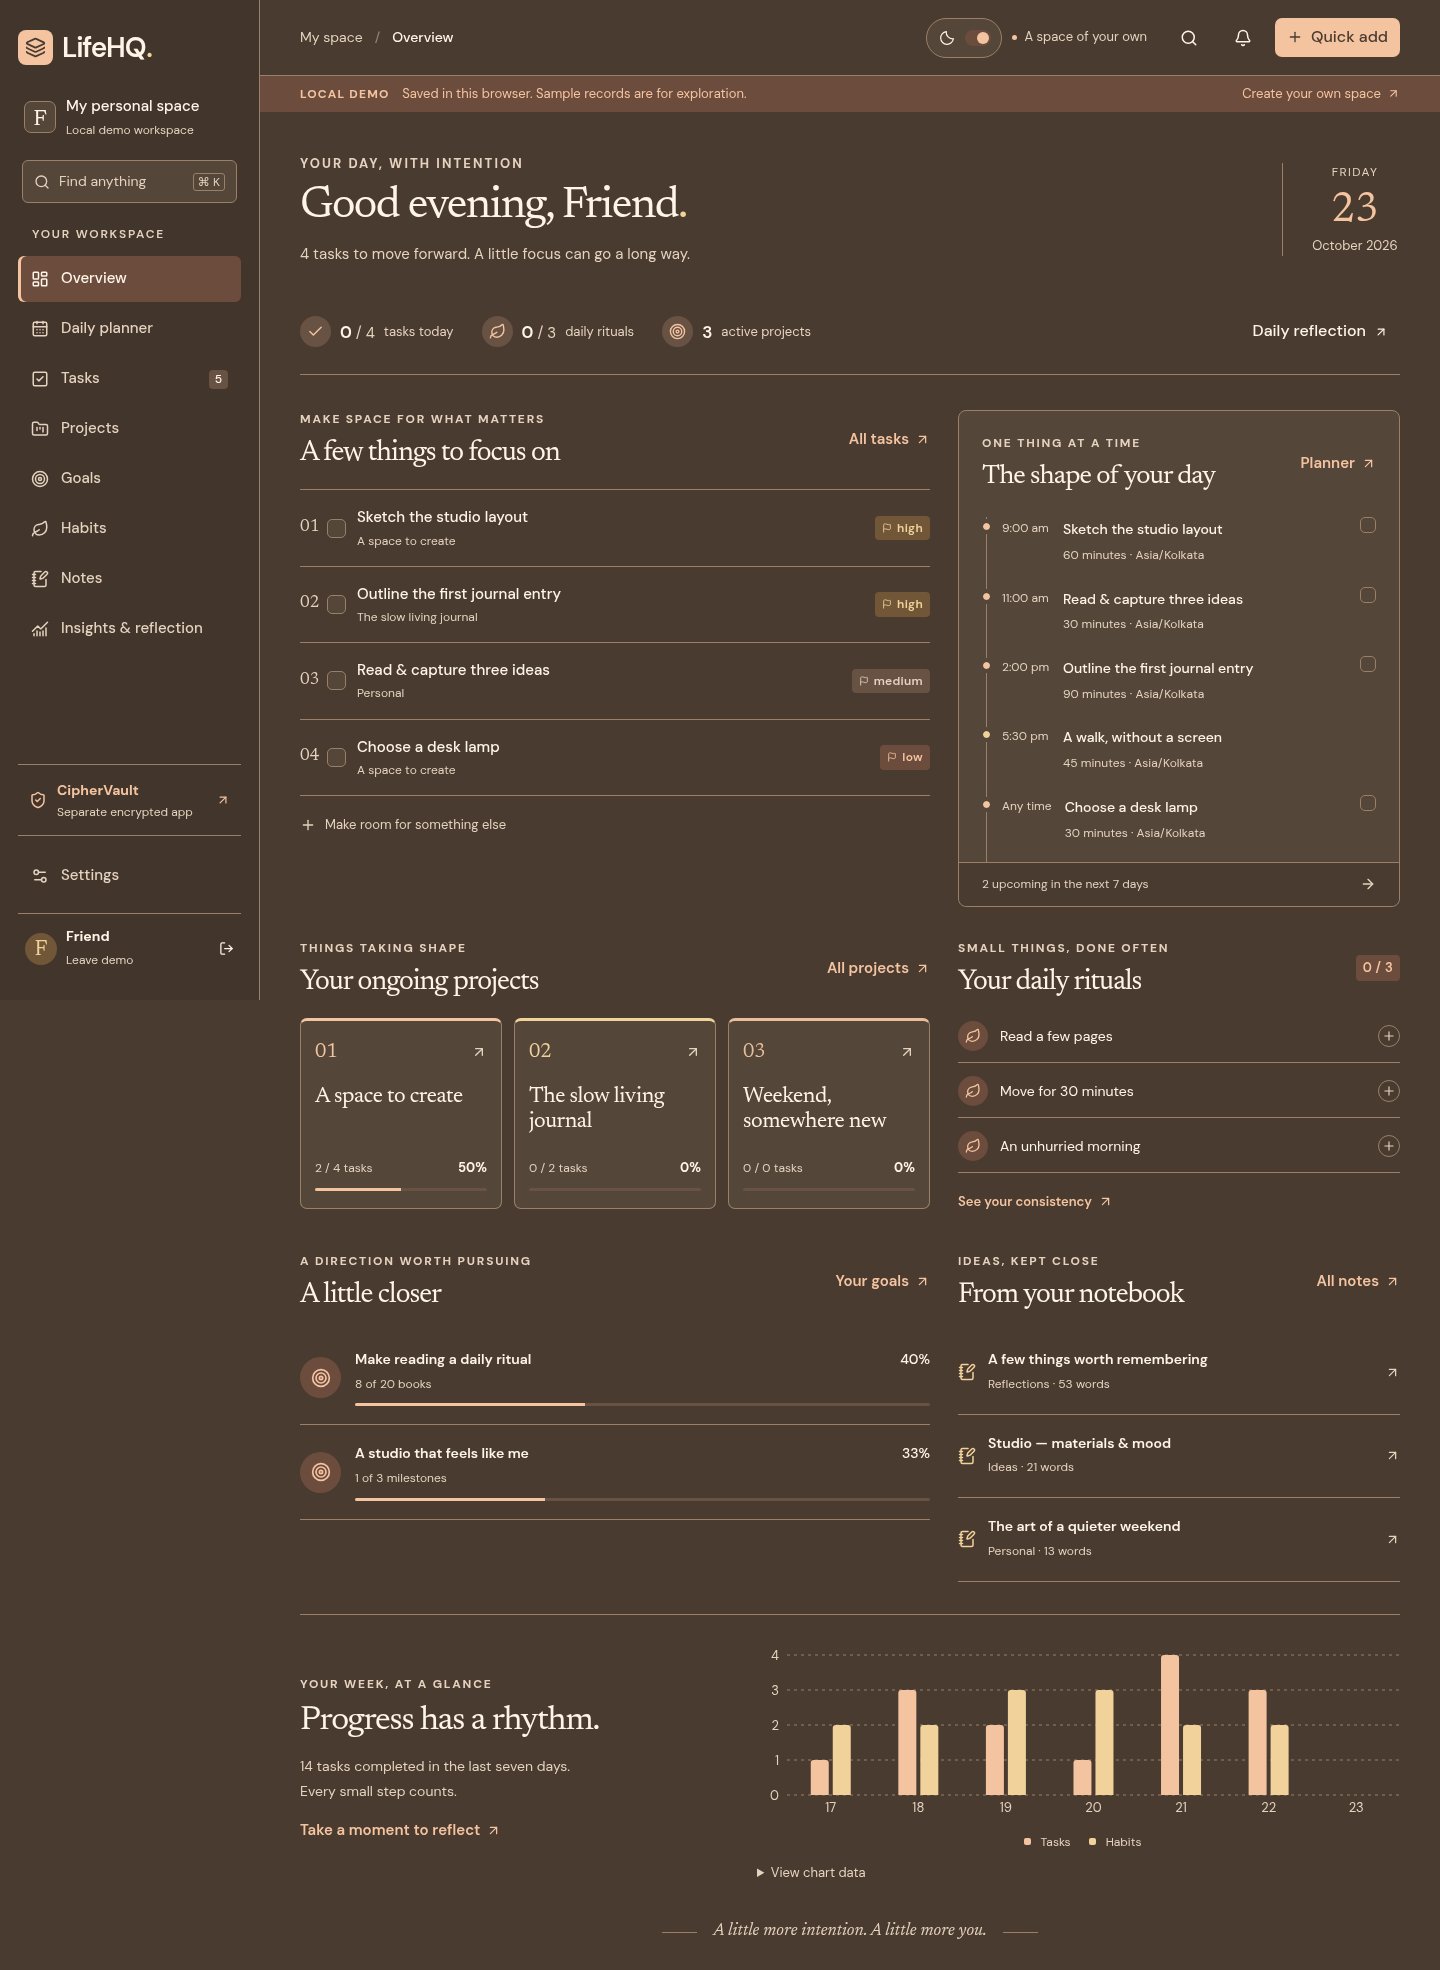
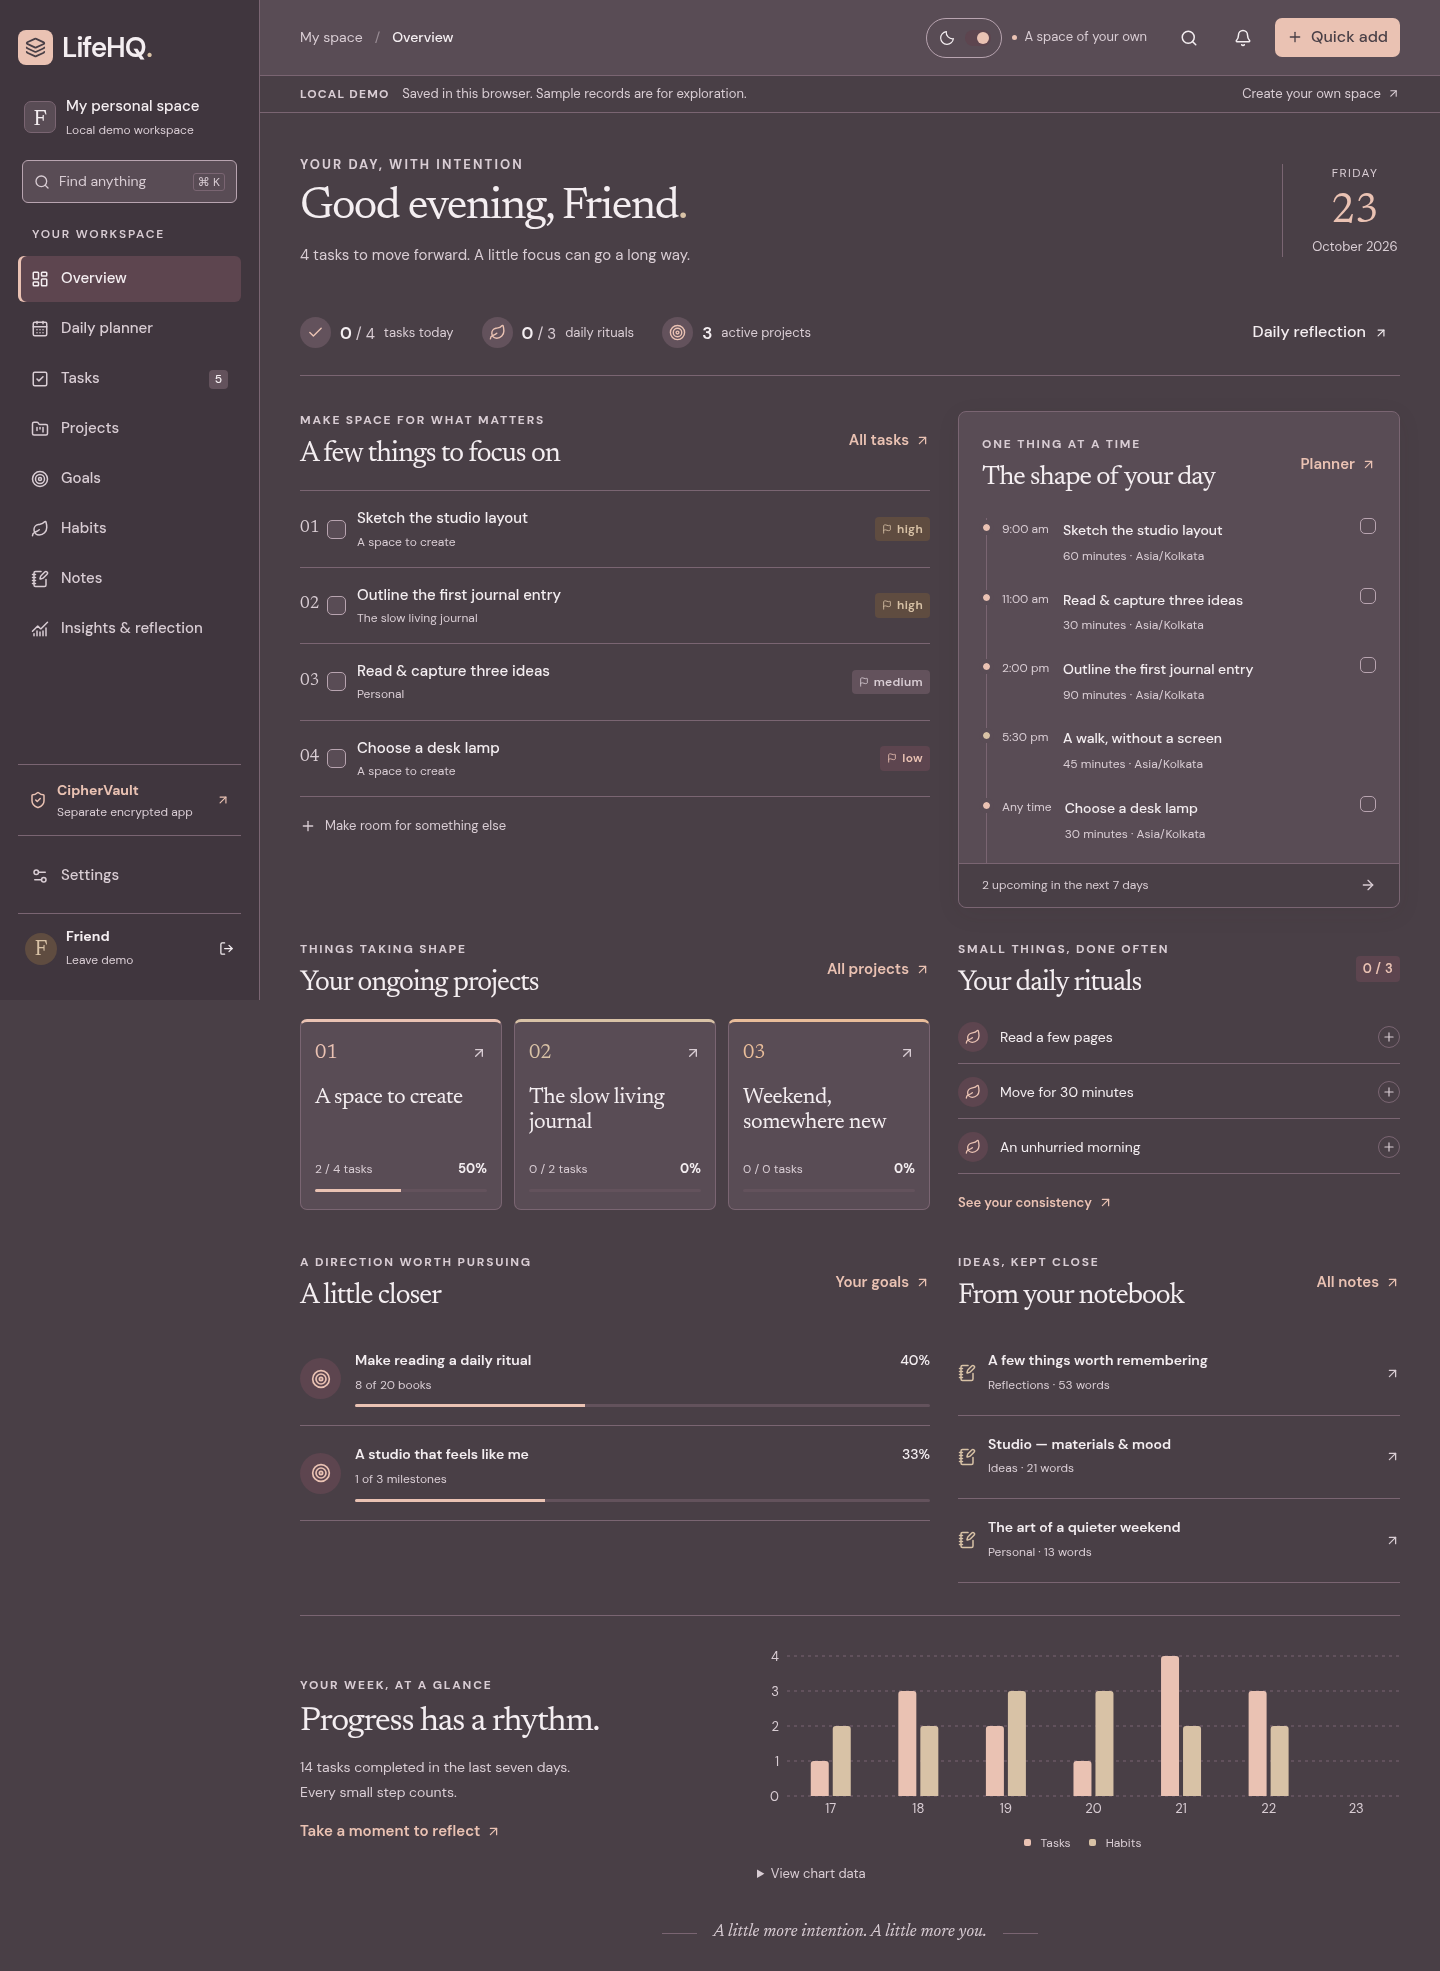
Refine dark surfaces, contrast and controls in both apps

diff --git a/packages/ui/styles.css b/packages/ui/styles.css
@@ -27,20 +27,21 @@
   color-scheme: light;
 }
 [data-theme="dark"] {
-  --paper: #493b30;
-  --surface: #55463a;
-  --ink: #fff5e7;
-  --muted: #e5d3bf;
-  --accent-primary: #f4c3a0;
-  --accent-soft: #6c4d3d;
-  --stone: #685244;
-  --line: #9a8069;
-  --copper: #f2d29b;
-  --copper-soft: #715738;
-  --danger: #ffd2cd;
-  --danger-soft: #76444e;
-  --sidebar: #42362c;
-  --shadow: 0 20px 80px #4c302b44;
+  --paper: #493f46;
+  --surface: #594c55;
+  --ink: #f4eef1;
+  --muted: #d9cdd4;
+  --accent-primary: #eac2b3;
+  --accent-soft: #5d454f;
+  --stone: #63525c;
+  --line: #7a6572;
+  --control-line: #b8a4b0;
+  --copper: #d8c2a6;
+  --copper-soft: #5f4c40;
+  --danger: #f2bfc2;
+  --danger-soft: #643e49;
+  --sidebar: #40363e;
+  --shadow: 0 18px 54px #33262e33;
   color-scheme: dark;
 }
 * {
@@ -166,7 +167,7 @@ textarea {
   color: var(--surface);
 }
 [data-theme="dark"] .button-primary {
-  color: #493b30;
+  color: var(--paper);
 }
 .button-secondary {
   border-color: var(--line);
@@ -637,4 +638,44 @@ textarea {
   .theme-toggle-track {
     display: none;
   }
+}
+
+/* Quiet dividers and higher-contrast controls have distinct jobs in dark mode. */
+[data-theme="dark"] input:not([type="checkbox"]):not([type="radio"]),
+[data-theme="dark"] select,
+[data-theme="dark"] textarea {
+  border-color: var(--control-line);
+}
+[data-theme="dark"] input::placeholder,
+[data-theme="dark"] textarea::placeholder {
+  color: var(--muted);
+  opacity: 1;
+}
+[data-theme="dark"] .button {
+  transition: transform 0.15s;
+}
+[data-theme="dark"] .button-secondary {
+  color: var(--ink);
+  border-color: var(--control-line);
+}
+[data-theme="dark"] .theme-toggle {
+  border-color: var(--control-line);
+}
+[data-theme="dark"] .button-danger {
+  color: var(--paper);
+}
+
+[data-theme="dark"] .toast {
+  background: var(--surface);
+  color: var(--ink);
+  border: 1px solid var(--control-line);
+  box-shadow: var(--shadow);
+}
+
+[data-theme="dark"] input[type="range"],
+[data-theme="dark"] input[type="radio"] {
+  accent-color: var(--accent-primary);
+}
+[data-theme="dark"] .modal-overlay {
+  background: color-mix(in srgb, var(--paper) 85%, transparent);
 }

diff --git a/apps/ciphervault/app/styles.css b/apps/ciphervault/app/styles.css
@@ -13,17 +13,20 @@
   --sidebar: #ece4d6;
 }
 [data-theme="dark"] {
-  --paper: #44382c;
-  --surface: #514333;
-  --ink: #fff0d8;
-  --muted: #e3cdb0;
-  --accent-primary: #f0c37d;
-  --accent-soft: #624932;
-  --stone: #69553f;
-  --line: #967a5b;
-  --copper: #f5d092;
-  --copper-soft: #725535;
-  --sidebar: #3f3429;
+  --paper: #48403b;
+  --surface: #584e47;
+  --ink: #f3eee8;
+  --muted: #d8cfc4;
+  --accent-primary: #dcc4a5;
+  --accent-soft: #5e4c3c;
+  --stone: #63564c;
+  --line: #807064;
+  --control-line: #b6a699;
+  --copper: #d4bda1;
+  --copper-soft: #5c4a3a;
+  --danger: #f2bfc2;
+  --danger-soft: #643e49;
+  --sidebar: #403a35;
 }
 .vault-app {
   min-height: 100vh;
@@ -944,4 +947,27 @@
 /* Theme changes must not blend a light button into a dark label. */
 .vault-app .button {
   transition: transform 0.15s;
+}
+
+[data-theme="dark"] .prototype-banner {
+  background: var(--paper);
+  color: var(--muted);
+  border-bottom: 1px solid var(--line);
+}
+[data-theme="dark"] .prototype-banner strong {
+  color: var(--ink);
+}
+[data-theme="dark"] .vault-nav.active {
+  color: var(--ink);
+  background: var(--stone);
+  box-shadow: inset 3px 0 var(--accent-primary);
+}
+[data-theme="dark"] .vault-item.selected {
+  border-color: var(--control-line);
+}
+[data-theme="dark"] .secret-field .eyebrow {
+  color: var(--muted);
+}
+[data-theme="dark"] .vault-header {
+  box-shadow: 0 3px 18px #332a241a;
 }

diff --git a/apps/lifehq/app/styles.css b/apps/lifehq/app/styles.css
@@ -3520,13 +3520,20 @@
   color: var(--ink);
 }
 [data-theme="dark"] .cipher-product {
-  --paper: #44382c;
-  --surface: #514333;
-  --ink: #fff0d8;
-  --muted: #e3cdb0;
-  --accent-primary: #f0c37d;
-  --accent-soft: #725a3d;
-  --line: #967a5b;
+  --paper: #48403b;
+  --surface: #584e47;
+  --ink: #f3eee8;
+  --muted: #d8cfc4;
+  --accent-primary: #dcc4a5;
+  --accent-soft: #5e4c3c;
+  --stone: #63564c;
+  --line: #807064;
+  --control-line: #b6a699;
+  --copper: #d4bda1;
+  --copper-soft: #5c4a3a;
+  --danger: #f2bfc2;
+  --danger-soft: #643e49;
+  --sidebar: #403a35;
 }
 .cipher-product-header {
   min-height: 92px;
@@ -3800,4 +3807,23 @@
   .cipher-product-footer {
     flex-direction: column;
   }
+}
+
+[data-theme="dark"] .topbar {
+  background: var(--surface);
+}
+[data-theme="dark"] .demo-banner {
+  background: var(--paper);
+  color: var(--muted);
+  border-bottom: 1px solid var(--line);
+}
+[data-theme="dark"] .task-check {
+  border-color: var(--control-line);
+}
+[data-theme="dark"] .daily-rhythm,
+[data-theme="dark"] .paper-panel {
+  box-shadow: 0 6px 24px #33262e12;
+}
+[data-theme="dark"] .sidebar-search {
+  border-color: var(--control-line);
 }

diff --git a/apps/ciphervault/components/vault-app.tsx b/apps/ciphervault/components/vault-app.tsx
@@ -1031,7 +1031,11 @@ function EntryEditor({
                     </Button>
                   </div>
                 </Field>
-                <div className="strength-indicator" aria-label={score.label}>
+                <div
+                  className="strength-indicator"
+                  role="img"
+                  aria-label={`Password strength: ${score.label}`}
+                >
                   {[1, 2, 3, 4].map((v) => (
                     <span
                       key={v}

diff --git a/apps/lifehq/components/analytics-settings.tsx b/apps/lifehq/components/analytics-settings.tsx
@@ -479,7 +479,7 @@ export function SettingsPage() {
                 }
               >
                 <option value="light">Natural ivory</option>
-                <option value="dark">Warm walnut</option>
+                <option value="dark">Soft dusk</option>
                 <option value="system">Follow system</option>
               </select>
             </Field>

diff --git a/DESIGN_SYSTEM.md b/DESIGN_SYSTEM.md
@@ -8,15 +8,15 @@ Tokens live in `packages/ui/styles.css`. DM Sans is the readable interface face;
 
 | Token | Light | Dark |
 | --- | --- | --- |
-| Paper | `#faf8f4` | `#493b30` |
-| Surface | `#fffefa` | `#55463a` |
-| Ink | `#514237` | `#fff5e7` |
-| Muted text | `#726354` | `#e5d3bf` |
-| Primary accent | `#9b4935` | `#f4c3a0` |
-| Stone | `#eee8df` | `#685244` |
-| Brass accent | `#805e25` | `#f2d29b` |
+| Paper | `#faf8f4` | `#493f46` |
+| Surface | `#fffefa` | `#594c55` |
+| Ink | `#514237` | `#f4eef1` |
+| Muted text | `#726354` | `#d9cdd4` |
+| Primary accent | `#9b4935` | `#eac2b3` |
+| Stone | `#eee8df` | `#63525c` |
+| Brass accent | `#805e25` | `#d8c2a6` |
 
-LifeHQ uses neutral ivory surfaces, warm brown text, and restrained terracotta accents. Navigation uses a subtle active background and a thin accent rule. Warm walnut is the evening theme. The header toggle changes light/dark appearance immediately; Settings also supports system appearance. A nonce-authorized bootstrap applies saved appearance before first paint. Account preferences sync the workspace theme; the login page retains a nonsensitive device preference.
+LifeHQ uses neutral ivory surfaces, warm brown text, and restrained terracotta accents. Navigation uses a subtle active background and a thin accent rule. Soft dusk is the evening theme. The header toggle changes light/dark appearance immediately; Settings also supports system appearance. A nonce-authorized bootstrap applies saved appearance before first paint. Account preferences sync the workspace theme; the login page retains a nonsensitive device preference.
 
 CipherVault owns separate sandstone/ochre tokens, geometric branding, sans-serif headings, and a standalone lock screen. LifeHQ links to a standalone product page that launches the independent web origin. No vault unlock screen, keys, or encrypted records live in LifeHQ.
 
@@ -35,3 +35,9 @@ Focus uses a visible accent outline. Motion is short and limited to state transi
 ## Visual evidence
 
 `docs/screenshots/` contains browser captures at 1440, 768, and 390 pixels for all ten LifeHQ sections (including the CipherVault access guide) and vault setup/unlocked layouts. These use clearly labeled sample records or dummy vault data. Automated overflow and selected accessibility checks accompany the screenshots. Visual inspection and accessibility results are recorded in [TESTING.md](TESTING.md); neither screenshots nor automated scans alone establish complete accessibility compliance.
+
+## Dark-mode refinement
+
+Dark mode uses desaturated dusk surfaces and off-white text in LifeHQ, with muted stone/champagne tones in CipherVault. Decorative dividers stay quiet; form inputs and secondary actions have a separate higher-contrast control border. Toasts use raised dark surfaces, and the vault prototype notice uses neutral text instead of a large amber band. Light-mode tokens are unchanged.
+
+Visual verification includes empty and populated Overview screens, the vault setup, a selected dummy record, and the edit dialog at desktop and mobile sizes. The vault palette remains distinct from LifeHQ.

diff --git a/docs/IMPLEMENTATION.md b/docs/IMPLEMENTATION.md
@@ -65,3 +65,7 @@ CipherVault's required prototype workflows are implemented and tested. It remain
 - Automatic review rejected removing Vercel SSO protection; that access setting was retained. No paid services or cloud vault storage were enabled.
 
 CipherVault interface: https://ciphervault-radhe12.vercel.app — a separate browser-local prototype. The production root returned HTTP 200 through the Vercel connector, with its restrictive CSP and prototype label. This does not establish an independent crypto audit or complete hosted browser verification.
+
+## Dark-mode visual refinement
+
+Dark-only tokens and overrides reduce the brown/yellow cast, separate header/sidebar/panel surfaces, soften decorative borders, and improve control and placeholder visibility. CipherVault's warning banner and active navigation use restrained tones. Light-mode tokens and layout are unchanged. Optimized builds and ESLint passed; six focused existing browser theme/accessibility checks passed, plus contrast/overflow checks across 11 additional dark captures using dummy records. The selected vault record and editor passed at desktop, tablet, and/or mobile sizes. The password-strength graphic also received a valid accessible image role. No authentication, storage, cryptographic, or data-access behavior changed.

diff --git a/docs/SCREENSHOTS.md b/docs/SCREENSHOTS.md
@@ -26,3 +26,11 @@ Additional detail captures:
 - [Login](screenshots/login-1440.png) · [Mobile](screenshots/login-390.png)
 - [Signup](screenshots/signup-1440.png) · [Mobile](screenshots/signup-390.png)
 - [Dark overview](screenshots/overview-dark-1440.png)
+
+Dark-mode detail review (sample/dummy records only):
+
+- [Empty Overview](screenshots/overview-empty-dark-1440.png) · [Mobile](screenshots/overview-empty-dark-390.png)
+- [Populated Overview](screenshots/overview-dark-1440.png) · [Tablet](screenshots/overview-dark-768.png) · [Mobile](screenshots/overview-dark-390.png)
+- [Vault setup](screenshots/vault-setup-dark-1440.png)
+- [Vault selected record](screenshots/vault-detail-dark-1440.png) · [Tablet](screenshots/vault-detail-dark-768.png) · [Mobile](screenshots/vault-detail-dark-390.png)
+- [Vault editor](screenshots/vault-editor-dark-1440.png) · [Mobile](screenshots/vault-editor-dark-390.png)
